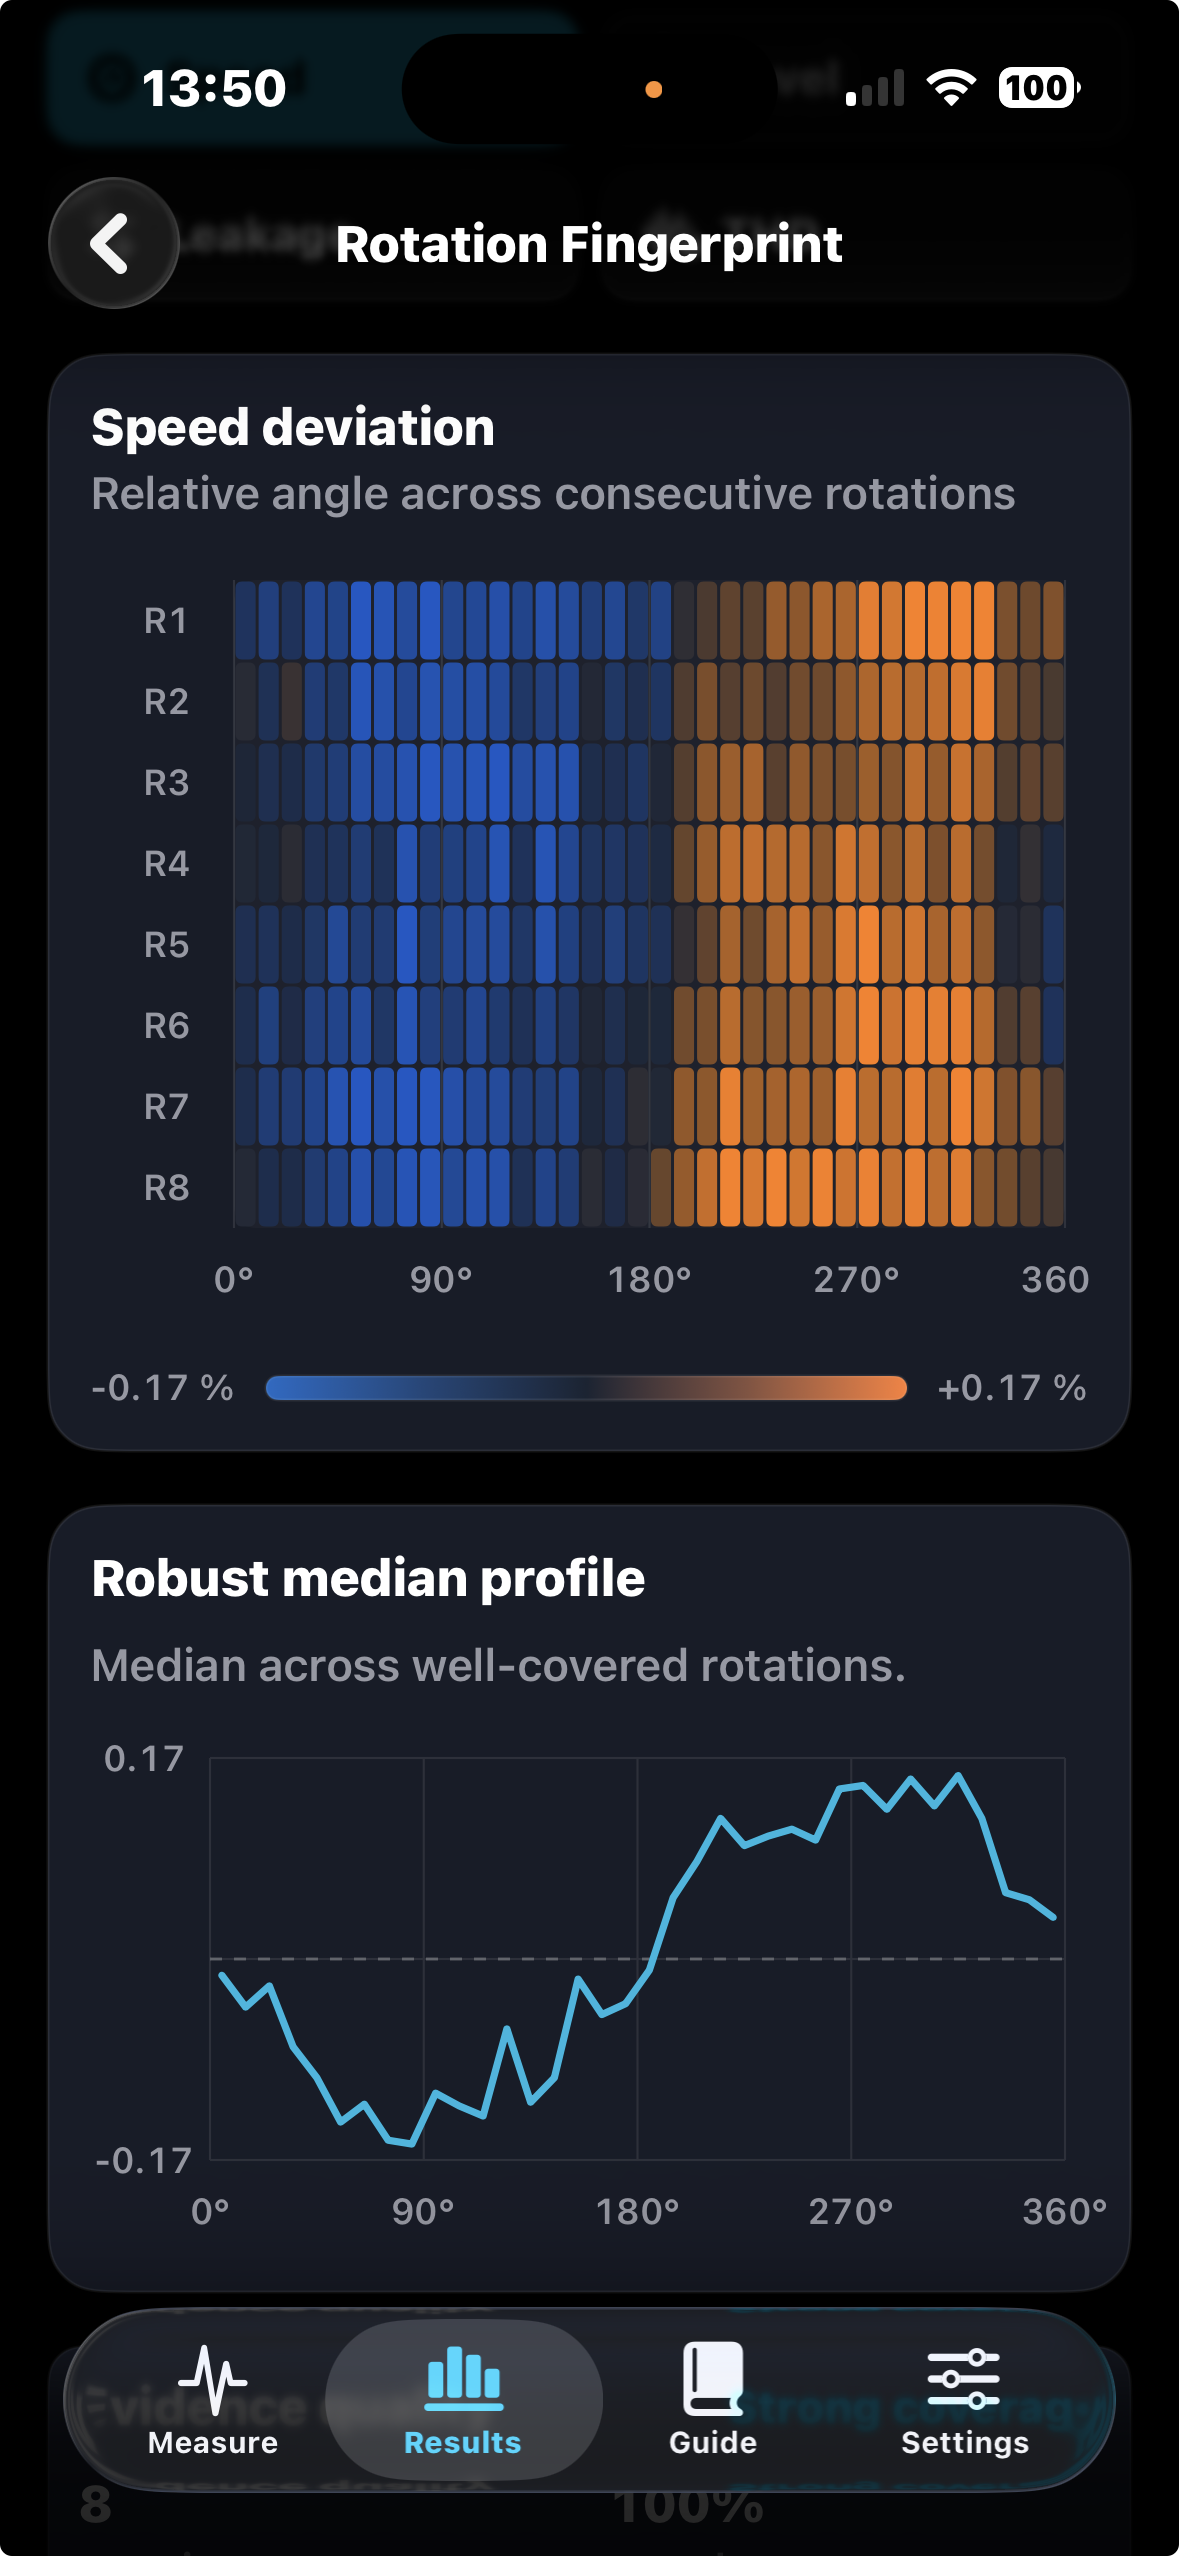
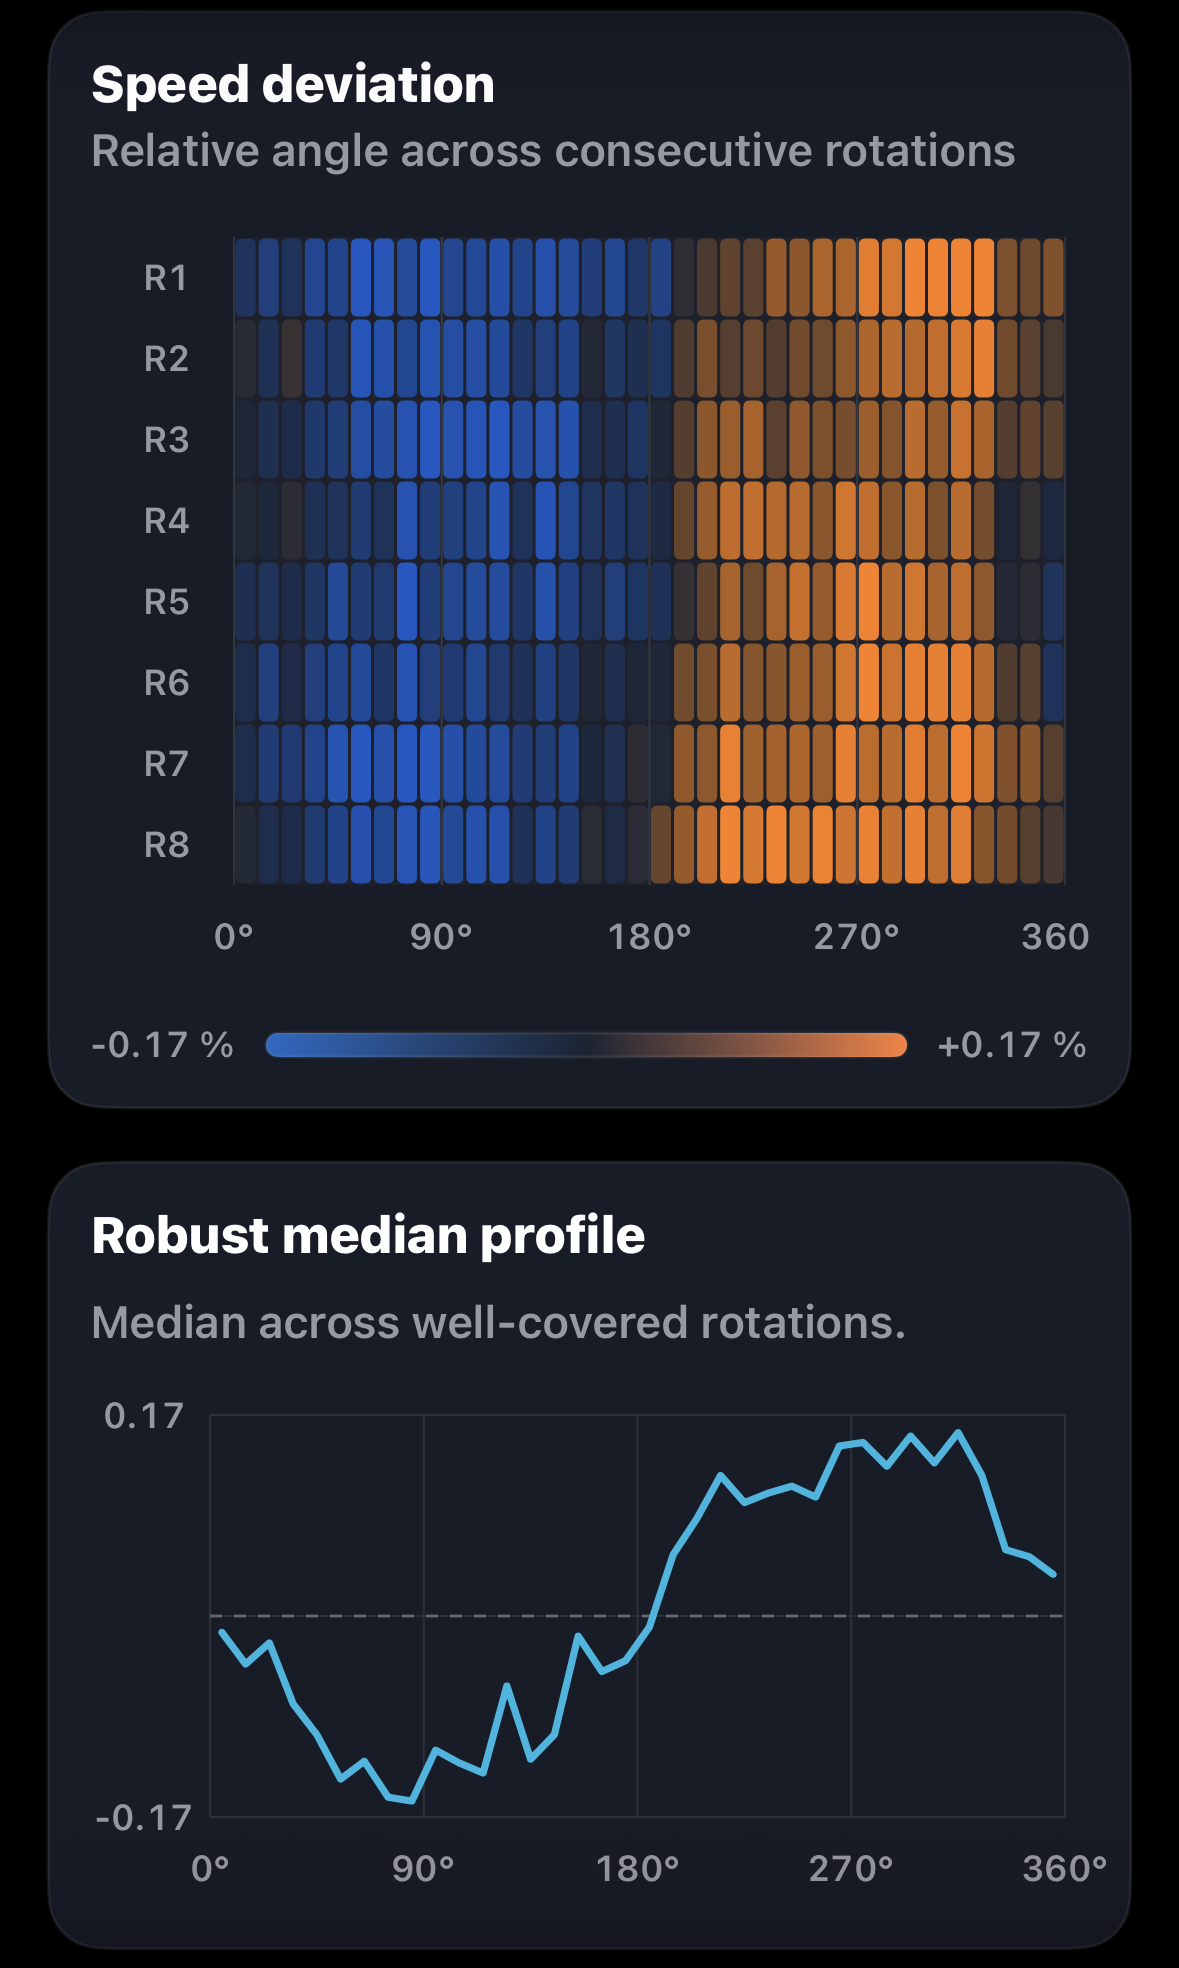
Correct GS-2026-0011 left speed plot and remove provenance panel

diff --git a/docs/groove-scope/measurements/GS-2026-0011.html b/docs/groove-scope/measurements/GS-2026-0011.html
@@ -101,7 +101,7 @@
         <div class="fingerprint-grid" aria-label="Rotation fingerprint cards">
           <article class="fingerprint-card" data-fingerprint-card>
             <div class="fingerprint-card-header"><h3>Speed deviation</h3><div class="channel-toggle" aria-label="Speed deviation channel"><button type="button" data-channel="left" aria-pressed="true">L</button><button type="button" data-channel="right" aria-pressed="false">R</button></div></div>
-            <div class="fingerprint-media"><img class="profile-image" data-fingerprint-image src="../assets/GS-2026-0011/web/speed-deviation-left.webp" data-source-left="../assets/GS-2026-0011/web/speed-deviation-left.webp" data-source-right="../assets/GS-2026-0011/web/speed-deviation-right.webp" data-alt-left="Left-channel speed-deviation rotation fingerprint and robust median profile." data-alt-right="Right-channel speed-deviation rotation fingerprint and robust median profile." width="1179" height="2556" loading="lazy" decoding="async" alt="Left-channel speed-deviation rotation fingerprint and robust median profile."></div>
+            <div class="fingerprint-media"><img class="profile-image" data-fingerprint-image src="../assets/GS-2026-0011/web/speed-deviation-left.webp?v=2" data-source-left="../assets/GS-2026-0011/web/speed-deviation-left.webp?v=2" data-source-right="../assets/GS-2026-0011/web/speed-deviation-right.webp" data-alt-left="Left-channel speed-deviation rotation fingerprint and robust median profile." data-alt-right="Right-channel speed-deviation rotation fingerprint and robust median profile." width="1179" height="1968" loading="lazy" decoding="async" alt="Left-channel speed-deviation rotation fingerprint and robust median profile."></div>
             <p class="visually-hidden" aria-live="polite" data-channel-status>Left channel selected</p>
           </article>
           <article class="fingerprint-card" data-fingerprint-card>
@@ -152,12 +152,6 @@
           <div><dt>Preamplifier</dt><dd>ART preamp</dd></div>
         </dl>
       </section>
-      <aside class="detail-section provenance-panel" aria-labelledby="provenance-heading">
-        <p class="eyebrow">Sample provenance</p>
-        <h2 id="provenance-heading">Direct Sound Records measurement session</h2>
-        <p>Michelangelo Canonico measured this system on 5 November 2026 at 12:08 local time. The archive preserves the PDF, eight source screenshots and a JPEG export of the supplied photograph. The cover uses a subtle colour and tone grade applied to the original photo. The measurement plots retain their original pixels.</p>
-        <p>The technical record is publicly available as a draft. The test record, capture and setup settings, time zone and software versions were not recorded.</p>
-      </aside>
       <section class="detail-section" aria-labelledby="record-heading">
         <div class="section-intro"><div><p class="eyebrow">Open technical record</p><h2 id="record-heading">Behind the playback chain</h2></div><p>The editorial review connects directly to the source report, structured record, checksums, measurement method and original asset archive.</p></div>
         <div class="technical-record">

diff --git a/measurements/GS-2026-0011/README.md b/measurements/GS-2026-0011/README.md
@@ -6,7 +6,7 @@ Groove Scope made it easy to improve the azimuth from a much poorer starting poi
 
 ## Record status
 
-Public archive draft. Measured 5 November 2026 at 12:08 local time. The report does not record a timezone. Published 5 November 2026. Record version 0.9.0.
+Public archive draft. Measured 5 November 2026 at 12:08 local time. The report does not record a timezone. Published 5 November 2026. Record version 0.9.1.
 
 ## Playback chain
 
@@ -88,4 +88,5 @@ Canonico, Michelangelo. “GS-2026-0011 — Audio-Technica VM95SH / Thorens TD 1
 
 ## Changelog
 
+- 0.9.1 — Replaced the left-channel speed fingerprint with the supplied cropped image.
 - 0.9.0 — Initial public entry with the source report, eight Rotation Fingerprints, the setup photograph and the measurer’s account.
